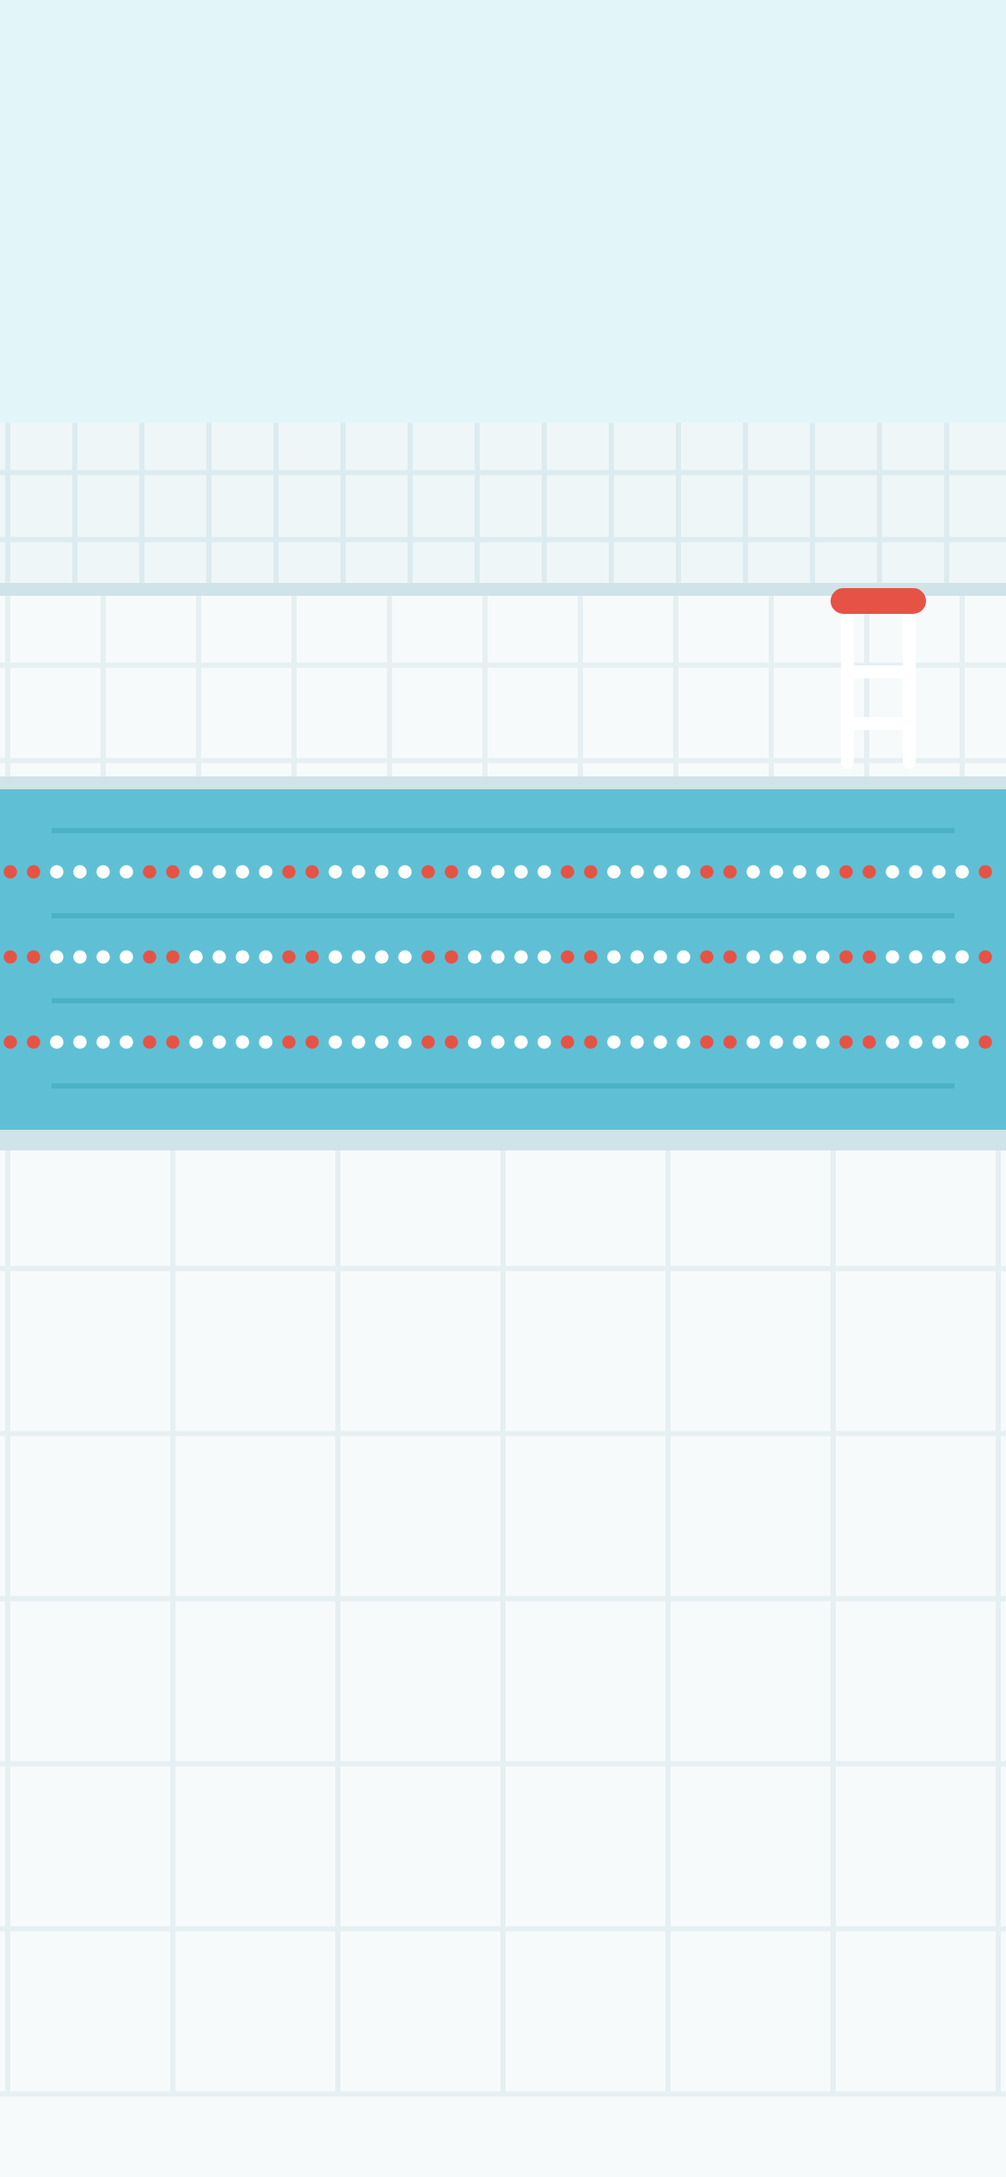
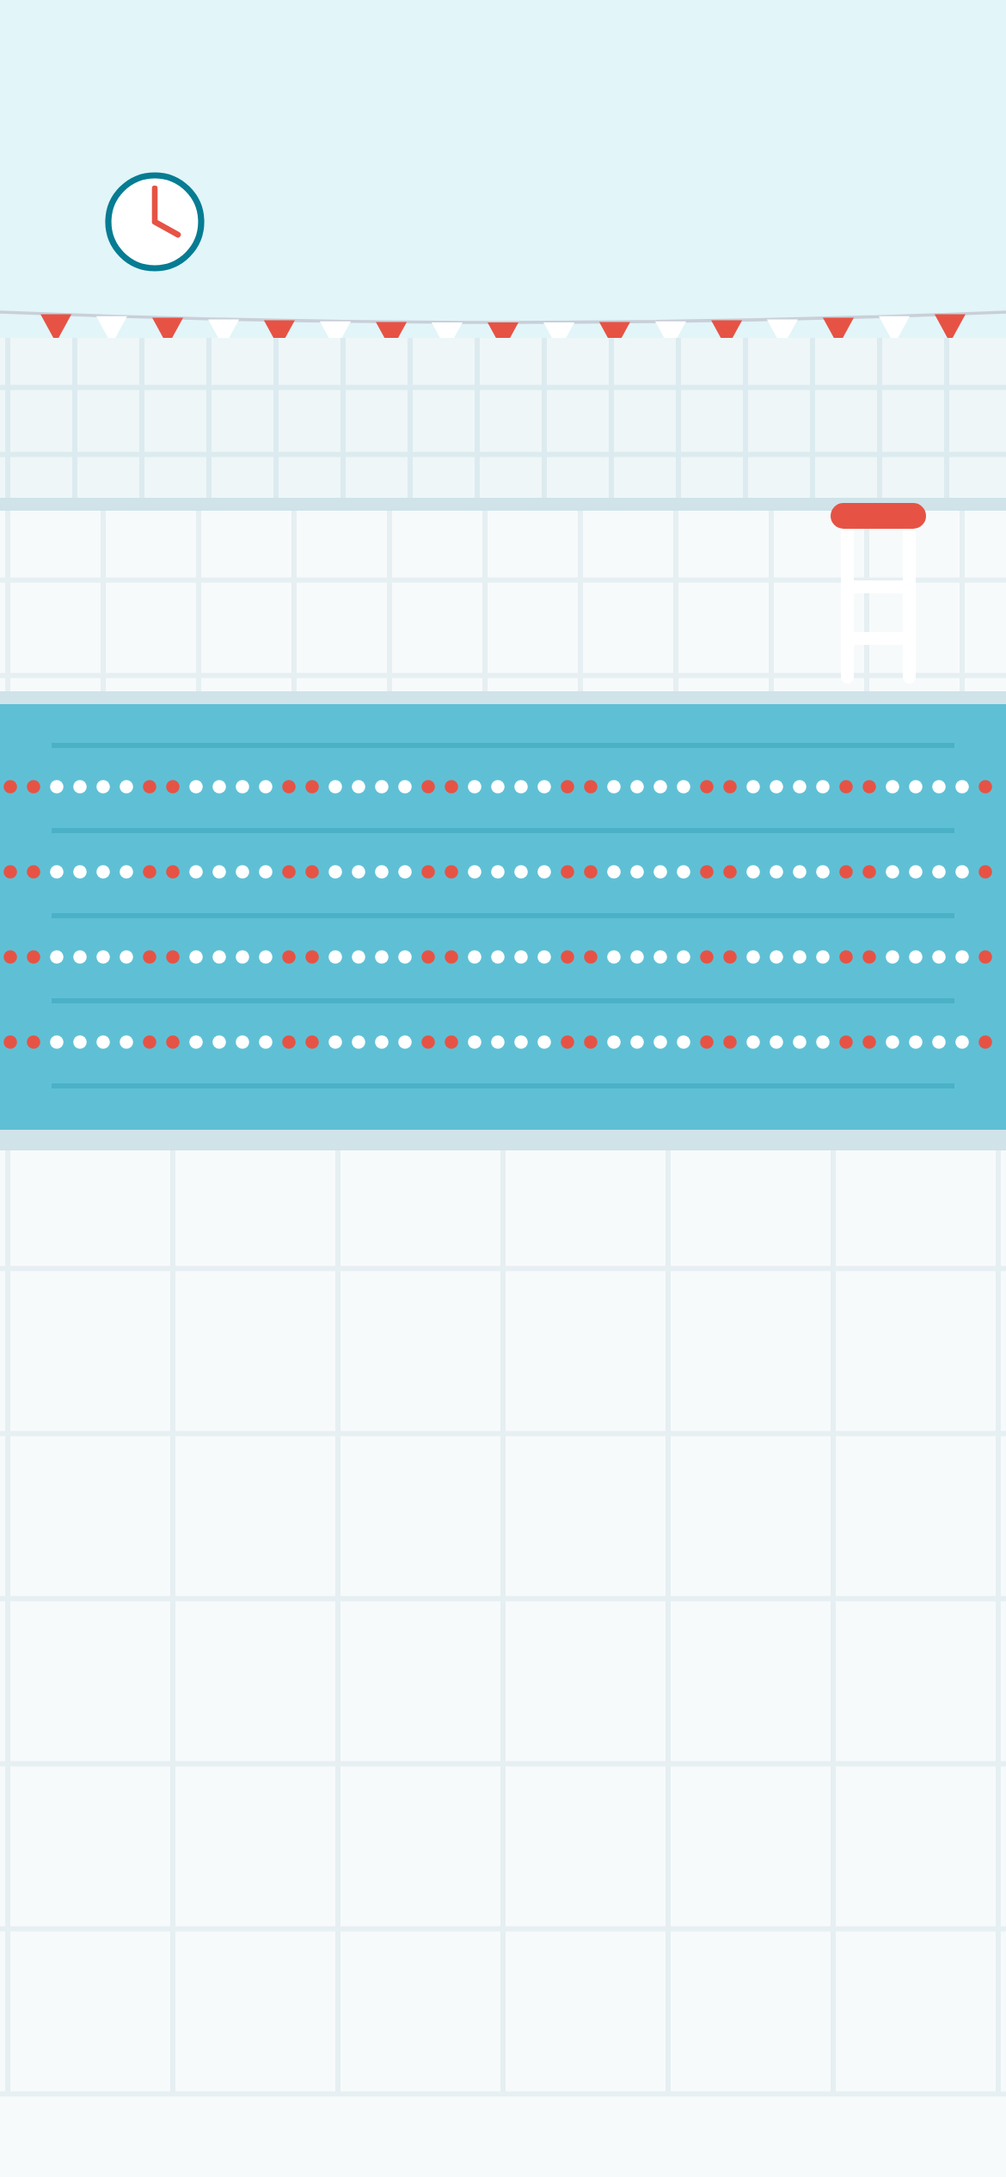
Use the detailed scene art for home and the reveal's fill
Tracy's revision from the scene art branch (claude/project-thread-38en0m): quiet
details on every scene (the pool's pace clock and flags, the gym's kettlebells,
the climbing truss, the tennis fence), rendered by node render.mjs.

Claude-Session: https://claude.ai/code/session_01AmUkd5X3hTbwg4nF6YrxXB

diff --git a/ios/Packages/CheckIn/SceneArt/scenes.js b/ios/Packages/CheckIn/SceneArt/scenes.js
@@ -63,17 +63,27 @@ function steps(y0, n, h, top, face) {
 // A V4-style hurdle: two rounded posts and a bar, in soft grey.
 const softHurdle = (x, y, c = '#C9CFD8') => `<g transform="translate(${x} ${y})"><rect x="-26" y="-30" width="9" height="34" rx="4.5" fill="${c}"/><rect x="17" y="-30" width="9" height="34" rx="4.5" fill="${c}"/><rect x="-30" y="-26" width="60" height="9" rx="4.5" fill="${c}"/><rect x="-30" y="-12" width="60" height="7" rx="3.5" fill="${c}"/></g>`;
 
+// A soft flat cloud for the outdoor skies.
+const cloud = (x, y, k) => `<g transform="translate(${x} ${y}) scale(${k})" fill="#FFFFFF"><rect x="-34" y="-6" width="68" height="16" rx="8"/><circle cx="-10" cy="-6" r="12"/><circle cx="10" cy="-10" r="15"/></g>`;
+// A string of small pennants hanging between two points, alternating two colours.
+function bunting(x0, x1, y, sag, a, b) {
+  let s = `<path d="M${x0} ${y} Q${(x0 + x1) / 2} ${y + sag * 2} ${x1} ${y}" stroke="#C9CFD8" stroke-width="1.2" fill="none"/>`;
+  for (let i = 1, n = Math.round((x1 - x0) / 22); i < n; i++) { const t = i / n, x = x0 + (x1 - x0) * t, yy = y + sag * 4 * t * (1 - t); s += `<path d="M${f1(x - 6)} ${f1(yy)} L${f1(x + 6)} ${f1(yy)} L${f1(x)} ${f1(yy + 11)} Z" fill="${i % 2 ? a : b}"/>`; }
+  return s;
+}
+
 const SCENES = {
   track() {
     let s = `<rect width="390" height="844" fill="#EAF2F7"/>`;
-    // back: stands across the whole width
-    s += steps(200, 6, 21, '#FFFFFF', '#DFE7EE');
-    s += `<rect x="0" y="326" width="390" height="20" fill="#D5E4C2"/>`;
-    s += softHurdle(60, 344, '#FFFFFF') + softHurdle(330, 344, '#FFFFFF');
-    // track lanes, flat bands across the screen
-    s += `<rect x="0" y="346" width="390" height="204" fill="#E65345"/>`;
-    [346, 397, 448, 499, 550].forEach(y => s += `<rect x="0" y="${y - 1}" width="390" height="2.4" fill="#FFFFFF" fill-opacity=".85"/>`);
-    [[1, 380], [2, 431], [3, 482], [4, 533]].forEach(([n, y]) => s += `<text x="372" y="${y - 6}" text-anchor="middle" font-family="Barlow Condensed,sans-serif" font-weight="700" font-size="20" fill="#FFFFFF" fill-opacity=".5">${n}</text>`);
+    // back: pennants over the stands, seen full screen when the scene is unboxed; the stands across the whole width
+    s += bunting(0, 390, 146, 8, '#E65345', '#FFFFFF');
+    s += steps(170, 5, 21, '#FFFFFF', '#DFE7EE');
+    s += `<rect x="0" y="275" width="390" height="20" fill="#D5E4C2"/>`;
+    s += softHurdle(60, 293, '#FFFFFF') + softHurdle(330, 293, '#FFFFFF');
+    // track lanes, flat bands across the screen; the runners use lanes 2 to 4
+    s += `<rect x="0" y="295" width="390" height="255" fill="#E65345"/>`;
+    [295, 346, 397, 448, 499, 550].forEach(y => s += `<rect x="0" y="${y - 1}" width="390" height="2.4" fill="#FFFFFF" fill-opacity=".85"/>`);
+    [[1, 329], [2, 380], [3, 431], [4, 482], [5, 533]].forEach(([n, y]) => s += `<text x="372" y="${y - 6}" text-anchor="middle" font-family="Barlow Condensed,sans-serif" font-weight="700" font-size="20" fill="#FFFFFF" fill-opacity=".5">${n}</text>`);
     // front apron
     s += tiles(551, 851, '#F3F5F0', '#E4E9DC') + `<rect x="0" y="551" width="390" height="6" fill="#D9E3CC"/>`;
     s += benchBack(Z.leave, '#FFFFFF', '#D5DBE4');
@@ -81,7 +91,7 @@ const SCENES = {
     return { field: [{ x0: 55, x1: 335, y0: 380, y1: 500 }], avoid: [], open: [{ x0: 0, x1: 390, y0: 480, y1: 650 }], lift: 36, floor: '#F3F5F0',
       bg: s, fronts: [],
       lamps: `<g fill="#FFE9A8" fill-opacity=".08"><ellipse cx="110" cy="450" rx="190" ry="80"/><ellipse cx="290" cy="470" rx="190" ry="80"/></g>`,
-      lampsTop: `<rect x="186" y="210" width="196" height="3" fill="#FFF3C4"/>`,
+      lampsTop: `<rect x="186" y="180" width="196" height="3" fill="#FFF3C4"/>`,
       stations: [
         { kind: 'jog', label: '慢跑', kit: 'run', clip: 'run', n: 2, path: 'loop', lane: lane(-30, 420, 390), speed: 56 },
         { kind: 'jog', label: '慢跑', kit: 'run', clip: 'run', n: 2, path: 'loop', lane: lane(-30, 420, 441), speed: 48 },
@@ -92,22 +102,27 @@ const SCENES = {
   },
   pool() {
     let s = `<rect width="390" height="844" fill="#E2F5F9"/>`;
-    s += tiles(200, 266, '#EEF6F8', '#DCEBEF', 26);
-    s += `<rect x="0" y="262" width="390" height="5" fill="#CFE3E9"/>` + tiles(267, 341, '#F7FAFB', '#E6EFF2', 37);
-    s += `<g transform="translate(326 56)"><rect x="0" y="214" width="5" height="64" rx="2.5" fill="#FFFFFF"/><rect x="24" y="214" width="5" height="64" rx="2.5" fill="#FFFFFF"/><rect x="-4" y="208" width="37" height="10" rx="5" fill="#E65345"/><rect x="2" y="238" width="25" height="5" rx="2.5" fill="#FFFFFF"/><rect x="2" y="258" width="25" height="5" rx="2.5" fill="#FFFFFF"/></g>`;
-    s += `<rect x="0" y="337" width="390" height="5" fill="#CFE3E9"/>`;
-    s += `<rect x="0" y="342" width="390" height="134" fill="#5FC0D5"/>`;
+    // the wall over the pool, seen full screen when the scene is unboxed: a small pace clock and backstroke flags
+    s += `<circle cx="60" cy="122" r="18" fill="#FFFFFF" stroke="#067C93" stroke-width="2.4"/><path d="M60 122 V109 M60 122 L69 127" stroke="#E65345" stroke-width="2.2" stroke-linecap="round"/>`;
+    s += bunting(0, 390, 157, 4, '#E65345', '#FFFFFF');
+    s += tiles(167, 233, '#EEF6F8', '#DCEBEF', 26);
+    s += `<rect x="0" y="229" width="390" height="5" fill="#CFE3E9"/>` + tiles(234, 308, '#F7FAFB', '#E6EFF2', 37);
+    s += `<g transform="translate(326 23)"><rect x="0" y="214" width="5" height="64" rx="2.5" fill="#FFFFFF"/><rect x="24" y="214" width="5" height="64" rx="2.5" fill="#FFFFFF"/><rect x="-4" y="208" width="37" height="10" rx="5" fill="#E65345"/><rect x="2" y="238" width="25" height="5" rx="2.5" fill="#FFFFFF"/><rect x="2" y="258" width="25" height="5" rx="2.5" fill="#FFFFFF"/></g>`;
+    s += `<rect x="0" y="304" width="390" height="5" fill="#CFE3E9"/>`;
+    s += `<rect x="0" y="309" width="390" height="167" fill="#5FC0D5"/>`;
     const laneY = [358, 391, 424, 457, 490, 523];
-    for (let i = 0; i < 3; i++) { const y = 374 + i * 33; for (let x = 4; x < 390; x += 9) s += `<circle cx="${x}" cy="${y}" r="2.6" fill="${(x / 9 | 0) % 6 < 2 ? '#E65345' : '#FFFFFF'}"/>`; }
+    // the swimmers use the lower four lanes; the top one stays empty
+    s += `<rect x="20" y="324" width="350" height="2" fill="#067C93" fill-opacity=".22"/>`;
+    for (let i = -1; i < 3; i++) { const y = 374 + i * 33; for (let x = 4; x < 390; x += 9) s += `<circle cx="${x}" cy="${y}" r="2.6" fill="${(x / 9 | 0) % 6 < 2 ? '#E65345' : '#FFFFFF'}"/>`; }
     for (let i = 0; i < 4; i++) s += `<rect x="20" y="${laneY[i] - 1}" width="350" height="2" fill="#067C93" fill-opacity=".22"/>`;
     s += `<rect x="0" y="474" width="390" height="10" fill="#CFE3E9"/>` + tiles(482, 848, '#F7FAFB', '#E6EFF2');
     s += benchBack(Z.leave, '#FFFFFF', '#CFE3E9');
     // open: where anyone not on a station may stand; avoid: props on that floor nobody stands on, in screen coordinates after the lift (never on walls, in water or on the court).
     return { avoid: [], open: [{ x0: 0, x1: 390, y0: 474, y1: 650 }], lift: 36, floor: '#F7FAFB',
       bg: s, fronts: [],
-      lamps: `<g fill="#BFF1FF" fill-opacity=".16"><rect x="0" y="342" width="390" height="134"/></g><g fill="#FFE9A8" fill-opacity=".1"><ellipse cx="90" cy="600" rx="140" ry="50"/><ellipse cx="300" cy="600" rx="140" ry="50"/></g>`,
-      lampsTop: `<g fill="#FFF3C4"><circle cx="120" cy="206" r="4"/><circle cx="270" cy="206" r="4"/></g>`,
-      water: { y0: 342, y1: 476 },
+      lamps: `<g fill="#BFF1FF" fill-opacity=".16"><rect x="0" y="309" width="390" height="167"/></g><g fill="#FFE9A8" fill-opacity=".1"><ellipse cx="90" cy="600" rx="140" ry="50"/><ellipse cx="300" cy="600" rx="140" ry="50"/></g>`,
+      lampsTop: `<g fill="#FFF3C4"><circle cx="120" cy="173" r="4"/><circle cx="270" cy="173" r="4"/></g>`,
+      water: { y0: 309, y1: 476 },
       stations: [
         { kind: 'swim', label: '自由泳', kit: 'swim', clip: 'swim', n: 4, path: 'lanes', lanes: laneY.slice(0, 4).map(y => lane(36, 354, y + 6)), speed: 34, swim: true },
       ],
@@ -117,11 +132,12 @@ const SCENES = {
   gym() {
     const G1 = '#2B2E36', G2 = '#3D414B', V = '#C6F432';
     let s = `<rect width="390" height="844" fill="#F2F3F5"/>`;
-    s += `<rect x="0" y="272" width="390" height="4" fill="#1F2128"/><rect x="0" y="276" width="390" height="3" fill="${V}"/>`;
-    // clock and a small front desk on the wall line
-    s += `<circle cx="300" cy="306" r="11" fill="#FFFFFF" stroke="${G1}" stroke-width="2.5"/><path d="M300 306 V299 M300 306 L305 309" stroke="${G1}" stroke-width="2" stroke-linecap="round"/>`;
-    s += `<rect x="40" y="302" width="92" height="32" rx="6" fill="${G1}"/><rect x="40" y="302" width="92" height="6" rx="3" fill="${V}"/><text x="86" y="326" text-anchor="middle" font-family="Barlow Condensed,sans-serif" font-weight="700" font-size="12" fill="#FFFFFF" letter-spacing="1">FRONT DESK</text>`;
-    s += tiles(334, 846, '#ECEEF1', '#DEE1E6') + `<rect x="0" y="334" width="390" height="4" fill="#D3D7DD"/>`;
+    // the wall above the floor, seen full screen when the scene is unboxed: mirrors, a speaker, and a kettlebell rack under the wall line
+    [[150, 120], [276, 120]].forEach(([x, w]) => s += `<rect x="${x - w / 2}" y="60" width="${w}" height="150" rx="6" fill="#E6EAEE" stroke="#D3D7DD" stroke-width="2"/><path d="M${x - w / 2 + 18} 190 L${x - w / 2 + 58} 80 M${x - w / 2 + 38} 190 L${x - w / 2 + 66} 112" stroke="#FFFFFF" stroke-width="6" stroke-linecap="round" opacity=".8"/>`);
+    s += `<rect x="40" y="296" width="96" height="4" rx="2" fill="#C9CED6"/>${[54, 76, 98, 122].map((x, i) => { const r = 6 + Math.min(i, 2), cy = 294 - r; return `<path d="M${x - .6 * r} ${cy - .5 * r} C${x - .6 * r} ${cy - 1.8 * r} ${x + .6 * r} ${cy - 1.8 * r} ${x + .6 * r} ${cy - .5 * r}" stroke="#2B2E36" stroke-width="2.6" fill="none"/><circle cx="${x}" cy="${cy}" r="${r}" fill="#2B2E36"/>`; }).join('')}`;
+    s += `<rect x="350" y="66" width="22" height="32" rx="4" fill="#2B2E36"/><circle cx="361" cy="87" r="6" fill="#3D414B"/><circle cx="361" cy="74" r="2.5" fill="#C6F432"/>`;
+    s += `<rect x="0" y="248" width="390" height="4" fill="#1F2128"/><rect x="0" y="252" width="390" height="3" fill="${V}"/>`;
+    s += tiles(310, 846, '#ECEEF1', '#DEE1E6') + `<rect x="0" y="310" width="390" height="4" fill="#D3D7DD"/>`;
     // dark rubber platforms only under the machines
     s += `<rect x="30" y="384" width="160" height="40" rx="8" fill="${G1}"/><rect x="206" y="384" width="160" height="40" rx="8" fill="${G1}"/>`;
     s += `<rect x="40" y="474" width="138" height="5" rx="2.5" fill="#C9CED6"/>`;
@@ -137,7 +153,7 @@ const SCENES = {
     return { field: [{ x0: 75, x1: 315, y0: 420, y1: 500 }], avoid: [{ x0: 40, x1: 350, y0: 350, y1: 392 }, { x0: 40, x1: 178, y0: 440, y1: 456 }], open: [{ x0: 0, x1: 390, y0: 440, y1: 650 }], lift: 24, floor: '#ECEEF1',
       bg: s, fronts: [],
       lamps: `<g fill="#FFE9A8" fill-opacity=".1"><ellipse cx="110" cy="440" rx="150" ry="60"/><ellipse cx="290" cy="460" rx="150" ry="60"/></g>`,
-      lampsTop: `<g fill="#FFF3C4"><rect x="60" y="204" width="90" height="4" rx="2"/><rect x="240" y="204" width="90" height="4" rx="2"/></g>`,
+      lampsTop: `<g fill="#FFF3C4"><rect x="60" y="180" width="90" height="4" rx="2"/><rect x="240" y="180" width="90" height="4" rx="2"/></g>`,
       stations: [
         { kind: 'treadmill', label: '跑步机', kit: 'run', clip: 'run', n: 2, path: 'still', spots: [[66, 409], [142, 409]] },
         { kind: 'squat', label: '深蹲', kit: 'strength', clip: 'squat', n: 2, path: 'still', spots: [[246, 412], [322, 412]], bar: true },
@@ -149,11 +165,20 @@ const SCENES = {
   },
   tennis() {
     let s = `<rect width="390" height="844" fill="#EEF4F6"/>`;
-    s += `<rect x="0" y="210" width="390" height="114" fill="#E6ECDD"/>`;
-    for (let y = 210; y < 324; y += 16) for (let x = 0; x < 390; x += 16) s += `<path d="M${x} ${y} L${x + 16} ${y + 16} M${x + 16} ${y} L${x} ${y + 16}" stroke="#CBD5BB" stroke-width="1.2"/>`;
-    s += `<g>${[0, 1, 2].map(r => `<rect x="236" y="${264 + r * 20}" width="160" height="20" fill="#DCE3D0"/><rect x="236" y="${264 + r * 20}" width="160" height="5" rx="2.5" fill="#FFFFFF"/>`).join('')}</g>`;
-    s += `<rect x="0" y="324" width="390" height="236" fill="#6E8F38"/>`;
-    s += `<path d="M24 336 H366 V500 H24 Z M54 336 V500 M336 336 V500 M54 376 H336 M54 460 H336 M195 376 V460" stroke="#FFFFFF" stroke-width="2.4" fill="none"/>`;
+    // the sky over the fence, seen full screen when the scene is unboxed: two clouds
+    s += cloud(112, 100, 1) + cloud(292, 70, .75);
+    s += `<rect x="0" y="190" width="390" height="114" fill="#E6ECDD"/>`;
+    for (let y = 190; y < 304; y += 16) for (let x = 0; x < 390; x += 16) s += `<path d="M${x} ${y} L${x + 16} ${y + 16} M${x + 16} ${y} L${x} ${y + 16}" stroke="#CBD5BB" stroke-width="1.2"/>`;
+    // quiet details on the fence: a scoreboard, two balls stuck in the mesh, a ball basket
+    const ball = (x, y) => `<circle cx="${x}" cy="${y}" r="3.4" fill="#D6DE5A"/><path d="M${x - 2.4} ${y - 2.4} Q${x + 1} ${y} ${x - 2.4} ${y + 2.4}" stroke="#FFFFFF" stroke-width=".9" fill="none"/>`;
+    s += `<rect x="28" y="234" width="72" height="32" rx="6" fill="#5C7A2D"/><rect x="63.5" y="240" width="1" height="20" fill="#FFFFFF" fill-opacity=".3"/>`;
+    s += `<g font-family="Barlow Condensed,sans-serif" font-weight="800" font-size="19" fill="#FFFFFF" fill-opacity=".85" text-anchor="middle"><text x="46" y="257">15</text><text x="82" y="257">30</text></g>`;
+    s += ball(144, 254) + ball(192, 286);
+    s += `<g transform="translate(210 0)"><rect x="114" y="291" width="2" height="13" fill="#3B5119"/><rect x="134" y="291" width="2" height="13" fill="#3B5119"/>${ball(119, 284)}${ball(126, 282)}${ball(132, 285)}<rect x="111" y="286" width="28" height="9" rx="2" fill="none" stroke="#3B5119" stroke-width="1.6"/></g>`;
+    // the court: a darker run-off, the court itself a shade lighter with soft mowing stripes, crisp lines and centre marks
+    s += `<rect x="0" y="304" width="390" height="256" fill="#5F7F2E"/><rect x="24" y="316" width="342" height="204" fill="#6E8F38"/>`;
+    for (let i = 0; i < 6; i++) if (i % 2) s += `<rect x="24" y="${316 + i * 34}" width="342" height="34" fill="#FFFFFF" fill-opacity=".05"/>`;
+    s += `<path d="M24 316 H366 V520 H24 Z M54 316 V520 M336 316 V520 M54 376 H336 M54 460 H336 M195 376 V460 M195 316 V323 M195 520 V513" stroke="#FFFFFF" stroke-width="2.4" fill="none"/>`;
     s += tiles(560, 850, '#F0F3E9', '#E0E7D3') + `<rect x="0" y="556" width="390" height="6" fill="#5C7A2D"/>`;
     s += benchBack(Z.leave, '#FFFFFF', '#C9D3BB');
     const net = { lift: true, y: 418.5, svg: `<rect x="18" y="402" width="354" height="16" fill="#FFFFFF" fill-opacity=".28"/><path d="M18 402 H372" stroke="#FFFFFF" stroke-width="3"/>${Array.from({ length: 30 }, (_, i) => `<rect x="${20 + i * 12}" y="403" width="1" height="15" fill="#FFFFFF" fill-opacity=".5"/>`).join('')}<rect x="16" y="398" width="4" height="22" fill="#3B5119"/><rect x="370" y="398" width="4" height="22" fill="#3B5119"/>` };
@@ -161,7 +186,7 @@ const SCENES = {
     return { field: [{ x0: 70, x1: 330, y0: 346, y1: 470, avoid: [{ x0: 0, x1: 390, y0: 375, y1: 402 }] }], avoid: [], open: [{ x0: 0, x1: 390, y0: 480, y1: 650 }], lift: 30, floor: '#F0F3E9',
       bg: s, fronts: [net],
       lamps: `<g fill="#FFE9A8" fill-opacity=".13"><ellipse cx="195" cy="450" rx="230" ry="110"/></g>`,
-      lampsTop: `<g fill="#FFF3C4"><rect x="20" y="206" width="40" height="5" rx="2"/><rect x="330" y="206" width="40" height="5" rx="2"/></g>`,
+      lampsTop: `<g fill="#FFF3C4"><rect x="20" y="186" width="40" height="5" rx="2"/><rect x="330" y="186" width="40" height="5" rx="2"/></g><g font-family="Barlow Condensed,sans-serif" font-weight="800" font-size="19" fill="#FFF3C4" text-anchor="middle"><text x="46" y="257">15</text><text x="82" y="257">30</text></g>`,
       stations: [
         { kind: 'rally', label: '对打', kit: 'tennis', keepProp: true, clip: 'tennis', n: 4, path: 'still', spots: [[130, 376], [130, 492], [262, 376], [262, 492]], rally: true },
         { kind: 'serve', label: '发球', kit: 'tennis', keepProp: true, clip: 'tennis', n: 2, path: 'still', spots: [[40, 352], [350, 496]], serve: true },
@@ -171,14 +196,18 @@ const SCENES = {
   },
   climb() {
     let s = `<rect width="390" height="844" fill="#EAD8CC"/>`;
+    // the hall above the wall, seen full screen when the scene is unboxed: a roof truss with lamps
+    s += `<rect x="0" y="28" width="390" height="4" fill="#D8C2B3"/><rect x="0" y="58" width="390" height="4" fill="#D8C2B3"/>`;
+    for (let x = 0; x < 390; x += 30) s += `<path d="M${x} 32 L${x + 15} 58 L${x + 30} 32" stroke="#D8C2B3" stroke-width="3" fill="none"/>`;
+    [90, 195, 300].forEach(x => s += `<rect x="${x - 1}" y="62" width="2" height="64" fill="#C9AF9E"/><path d="M${x - 14} 138 Q${x} 116 ${x + 14} 138 Z" fill="#8E4A2C"/>`);
     const HZ = 446;
-    const P = [['M-10 196 L120 214 L104 330 L-10 312Z', '#F1E5DD'], ['M120 214 L250 190 L268 316 L104 330Z', '#E8D6CA'], ['M250 190 L400 222 L400 334 L268 316Z', '#EFE2D9'],
+    const P = [['M-10 172 L120 190 L104 330 L-10 312Z', '#F1E5DD'], ['M120 190 L250 166 L268 316 L104 330Z', '#E8D6CA'], ['M250 166 L400 198 L400 334 L268 316Z', '#EFE2D9'],
       [`M-10 312 L104 330 L96 ${HZ} L-10 ${HZ}Z`, '#E5D1C3'], [`M104 330 L268 316 L282 ${HZ} L96 ${HZ}Z`, '#EEDFD5'], [`M268 316 L400 334 L400 ${HZ} L282 ${HZ}Z`, '#E3CEBF']];
     P.forEach(([d, c]) => s += `<path d="${d}" fill="${c}" stroke="#F7EFE9" stroke-width="2"/>`);
     let k = 7; const r = () => (k = (k * 9301 + 49297) % 233280) / 233280;
     const routes = [['#8E4A2C', 132], ['#2B2E36', 177], ['#FFFFFF', 222], ['#C6F432', 267], ['#2D5BA0', 318], ['#E65345', 360]];
-    routes.forEach(([c, x]) => { for (let y = 226; y < HZ - 20; y += 24) { const xx = x + (r() - .5) * 22, rr = 3.5 + r() * 3; s += `<ellipse cx="${f1(xx)}" cy="${y}" rx="${f1(rr * 1.3)}" ry="${f1(rr)}" transform="rotate(${f1(r() * 180)} ${f1(xx)} ${y})" fill="${c}" ${c === '#FFFFFF' ? 'stroke="#D9C3B5" stroke-width="1.2"' : ''}/>`; } });
-    [132, 177, 222, 267].forEach(x => s += `<circle cx="${x}" cy="200" r="3" fill="#6F3820"/>`);
+    routes.forEach(([c, x]) => { for (let y = 202; y < HZ - 20; y += 24) { const xx = x + (r() - .5) * 22, rr = 3.5 + r() * 3; s += `<ellipse cx="${f1(xx)}" cy="${y}" rx="${f1(rr * 1.3)}" ry="${f1(rr)}" transform="rotate(${f1(r() * 180)} ${f1(xx)} ${y})" fill="${c}" ${c === '#FFFFFF' ? 'stroke="#D9C3B5" stroke-width="1.2"' : ''}/>`; } });
+    [132, 177, 222, 267].forEach(x => s += `<circle cx="${x}" cy="176" r="3" fill="#6F3820"/>`);
     s += `<rect x="0" y="${HZ - 6}" width="390" height="6" fill="#6F3820"/>` + tiles(HZ, HZ + 400, '#F2E9E2', '#E4D6CB');
     s += `<rect x="0" y="${HZ}" width="390" height="34" fill="#8E4A2C"/>${[100, 290].map(x => `<rect x="${x}" y="${HZ}" width="2" height="34" fill="#6F3820"/>`).join('')}<rect x="0" y="${HZ + 30}" width="390" height="4" fill="#6F3820"/>`;
     s += benchBack(Z.leave, '#FFFFFF', '#E0CFC2');
@@ -186,9 +215,9 @@ const SCENES = {
     return { field: [{ x0: 75, x1: 315, y0: 482, y1: 482 }], avoid: [], open: [{ x0: 0, x1: 390, y0: 470, y1: 650 }], lift: 10, floor: '#F2E9E2',
       bg: s, fronts: [],
       lamps: `<g fill="#FFE9A8" fill-opacity=".12"><ellipse cx="200" cy="330" rx="210" ry="110"/><ellipse cx="195" cy="600" rx="200" ry="60"/></g>`,
-      lampsTop: `<g fill="#FFF3C4"><circle cx="70" cy="204" r="4"/><circle cx="200" cy="200" r="4"/><circle cx="330" cy="204" r="4"/></g>`,
+      lampsTop: `<g fill="#FFF3C4">${[90, 195, 300].map(x => `<rect x="${x - 10}" y="137" width="20" height="3" rx="1.5"/>`).join('')}<circle cx="70" cy="180" r="4"/><circle cx="200" cy="176" r="4"/><circle cx="330" cy="180" r="4"/></g>`,
       stations: [
-        { kind: 'toprope', label: '顶绳', kit: 'climb', clip: 'climb', n: 4, path: 'vert', cols: [132, 177, 222, 267].map(x => ({ x, y0: 300, y1: 432 })), speed: 9, scale: .19, rope: 200 },
+        { kind: 'toprope', label: '顶绳', kit: 'climb', clip: 'climb', n: 4, path: 'vert', cols: [132, 177, 222, 267].map(x => ({ x, y0: 300, y1: 432 })), speed: 9, scale: .19, rope: 176 },
         { kind: 'boulder', label: '抱石', kit: 'climb', clip: 'climb', n: 2, path: 'vert', cols: [{ x: 322, y0: 380, y1: 436 }, { x: 362, y0: 380, y1: 436 }], speed: 7, scale: .19 },
         { kind: 'chalk', label: '擦镁粉', kit: 'climb', clip: 'warmup', n: 2, path: 'still', spots: [[150, 540], [240, 540]], chalk: true },
       ],
